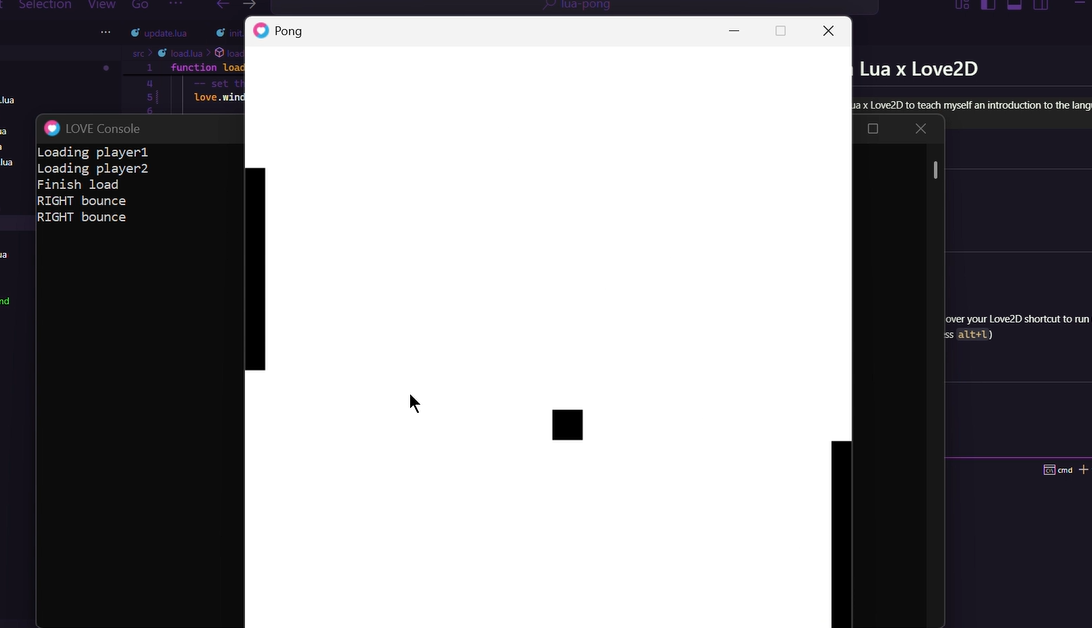
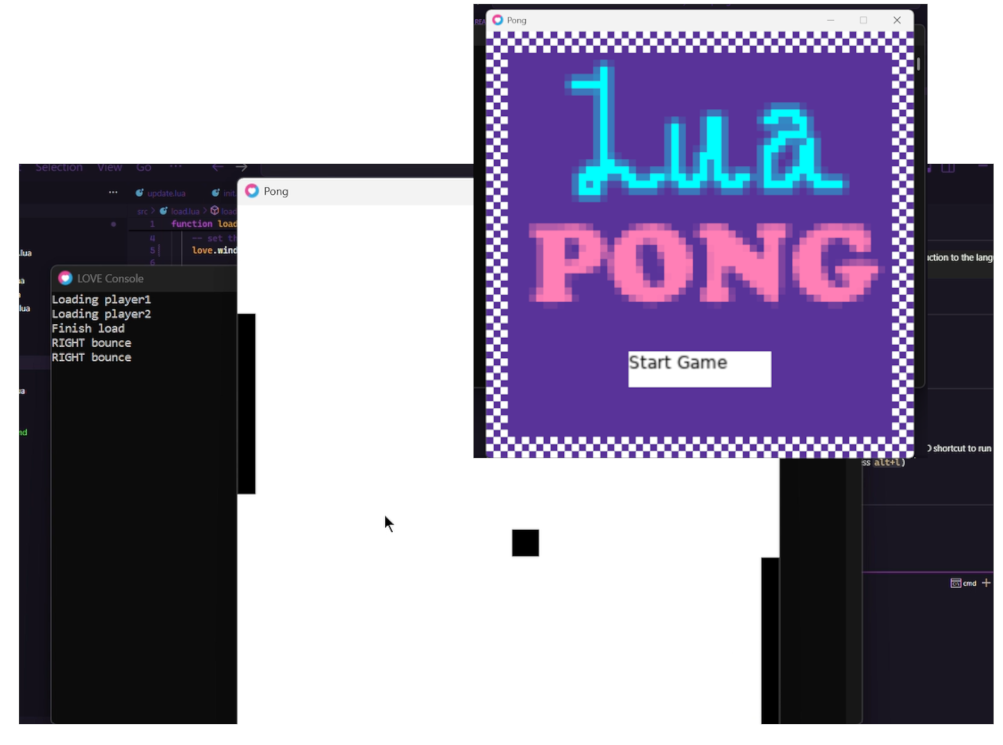
update README

diff --git a/README.md b/README.md
@@ -23,7 +23,7 @@
 - [ ] Add in sound effects
 - [ ] Scoring system
 - [ ] Save files for scores
-- [ ] "Landing" screen to start the game
+- [x] "Landing" screen to start the game
 - [ ] Difficulty increase
 - [ ] Individual player buffs
 - [ ] Up to 4 player support
